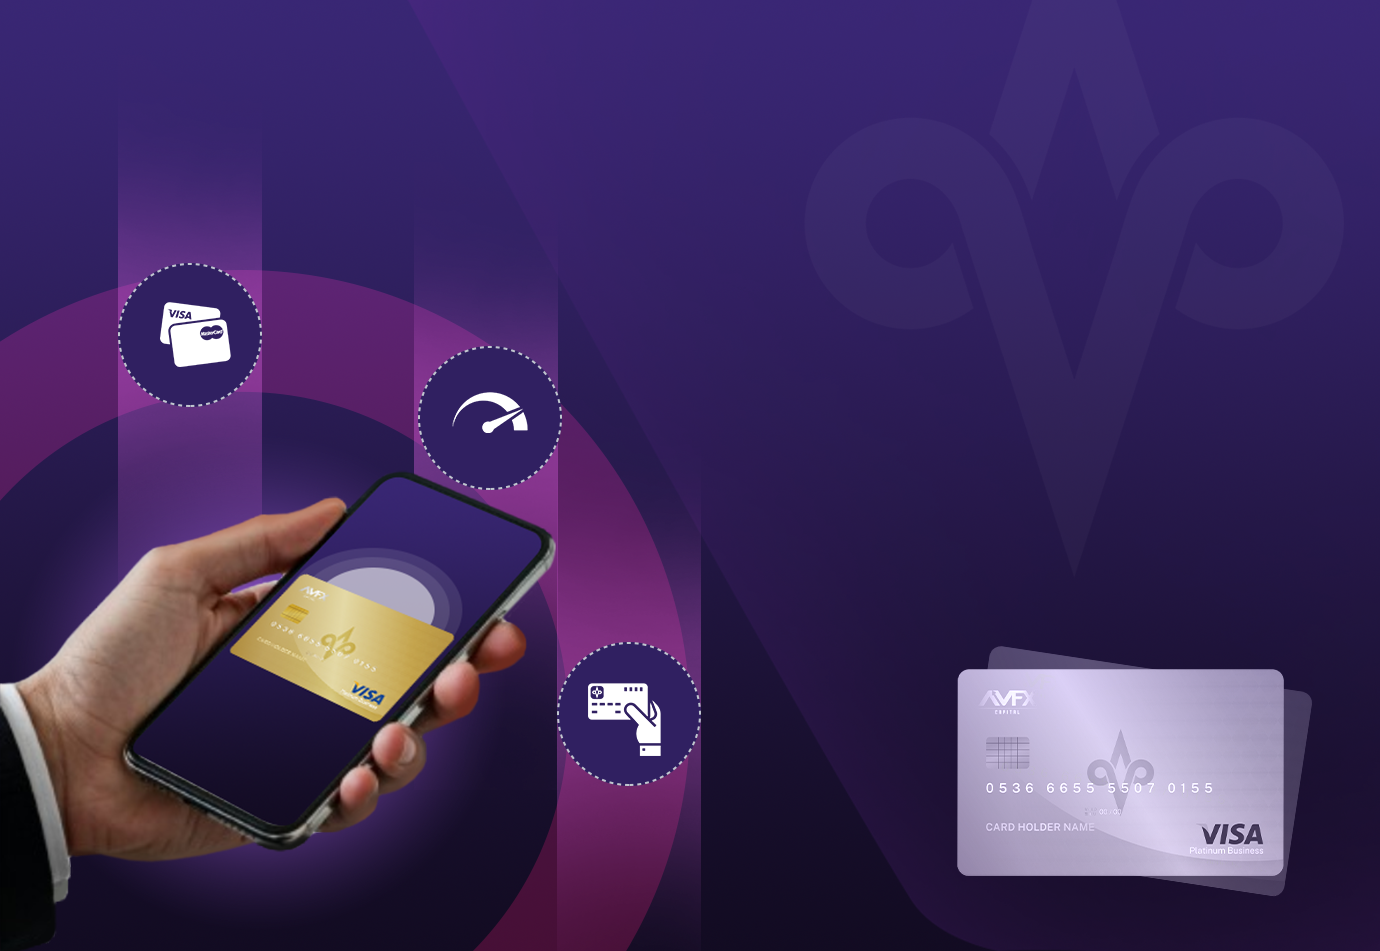
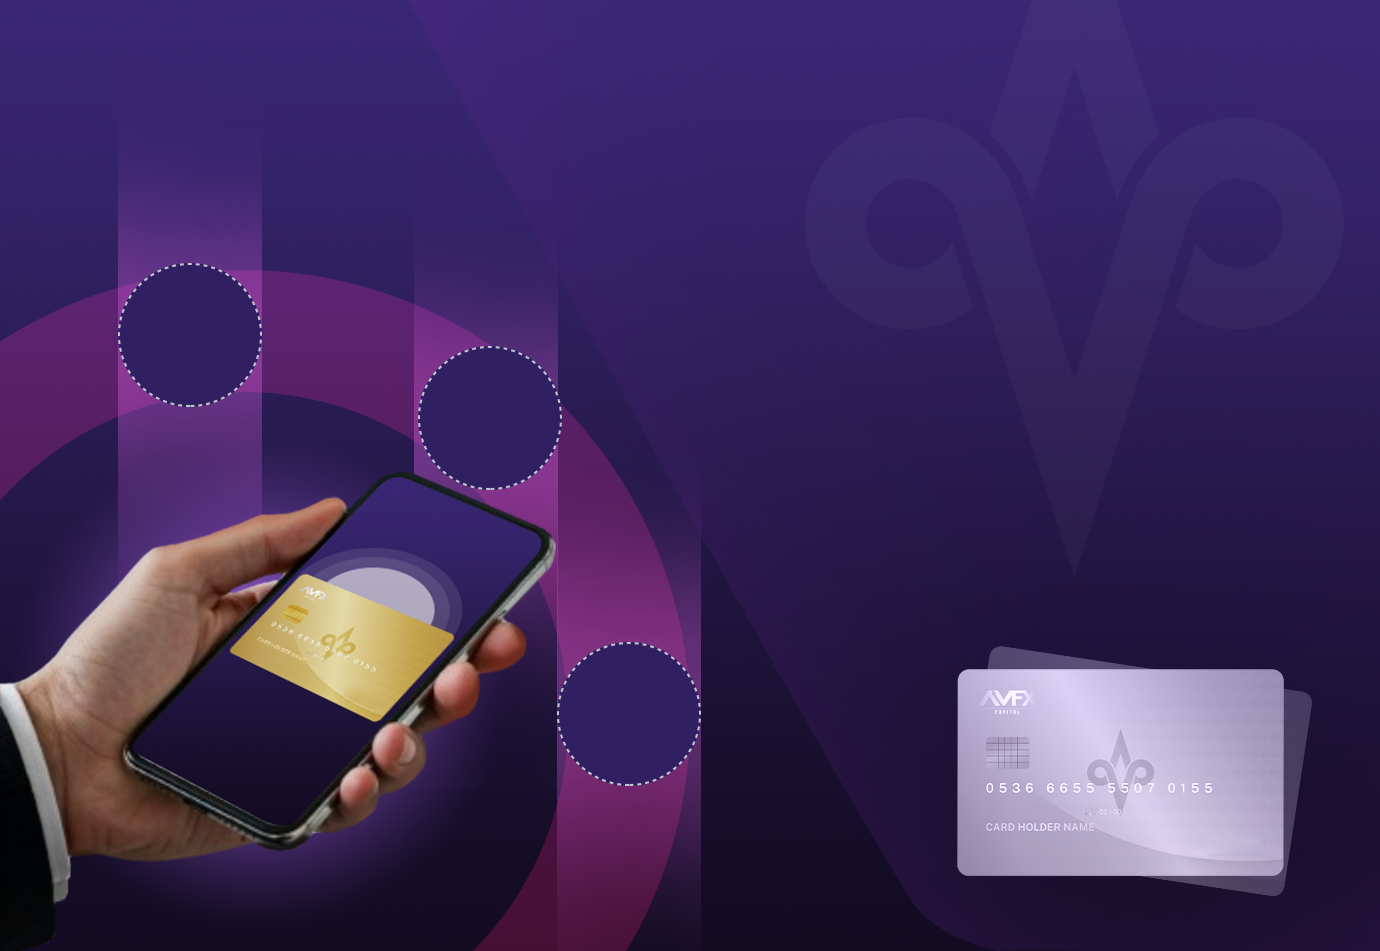
changes done

diff --git a/index.html b/index.html
@@ -1044,7 +1044,8 @@
                                                                     <div class="imagebox_content ">
                                                                         <div class="d-flex align-items-center gap-3 mb-4">
                                                                             <div class="imagebox_icon">
-                                                                                <img loading="lazy " decoding="async " src="images/02/Icon/01.png" class="attachment-full size-full" alt=" " />
+                                                                                <!-- <img loading="lazy " decoding="async " src="images/02/Icon/01.png" class="attachment-full size-full" alt=" " /> -->
+                                                                                <i class="fa-solid fa-money-bills" style="font-size: 30px;"></i>
                                                                             </div>
                                                                             <h3 class="imagebox_title ">Crypto card
                                                                             </h3>
@@ -1737,7 +1738,7 @@
                                                                     <h5>Convert or Move Value Inside the Platform</h5>
                                                                     <p class="funfact_title">Users can shift their value within the Dave Labs environment, including converting between supported forms or withdrawing to available options.</p>
                                                                     <p class="funfact_title mt-5"><i><b>(Purely
-                                                                                ecosystem-internal wording → fully
+                                                                                ecosystem-internal working → fully
                                                                                 compliant.)</b></i></p>
                                                                 </div>
                                                             </div>
@@ -2154,7 +2155,7 @@
                                                                             <li class='work'>
                                                                                 <input class='radio' id='work3' name='works' type='radio'>
                                                                                 <div class="relative">
-                                                                                    <label for='work3'>Master and Visa card partnership Payment solutions</label>
+                                                                                    <label for='work3'>Crypto card partnership Payment solutions</label>
                                                                                     <span class='date'>
                                                                                         <h2>Q2</h2>
                                                                                         <h4>2025</h4>
@@ -2451,7 +2452,8 @@
 
                                                                                 <div class="icon-bg">
                                                                                     <div class="icon-rot">
-                                                                                        <img src="images/10/Icon/04.png" alt="" width="35px">
+                                                                                        <!-- <img src="images/10/Icon/04.png" alt="" width="35px"> -->
+                                                                                        <i class="fa-solid fa-money-bills" style="font-size: 35px; color: #2d204b;"></i>
                                                                                     </div>
                                                                                 </div>
                                                                             </div>
